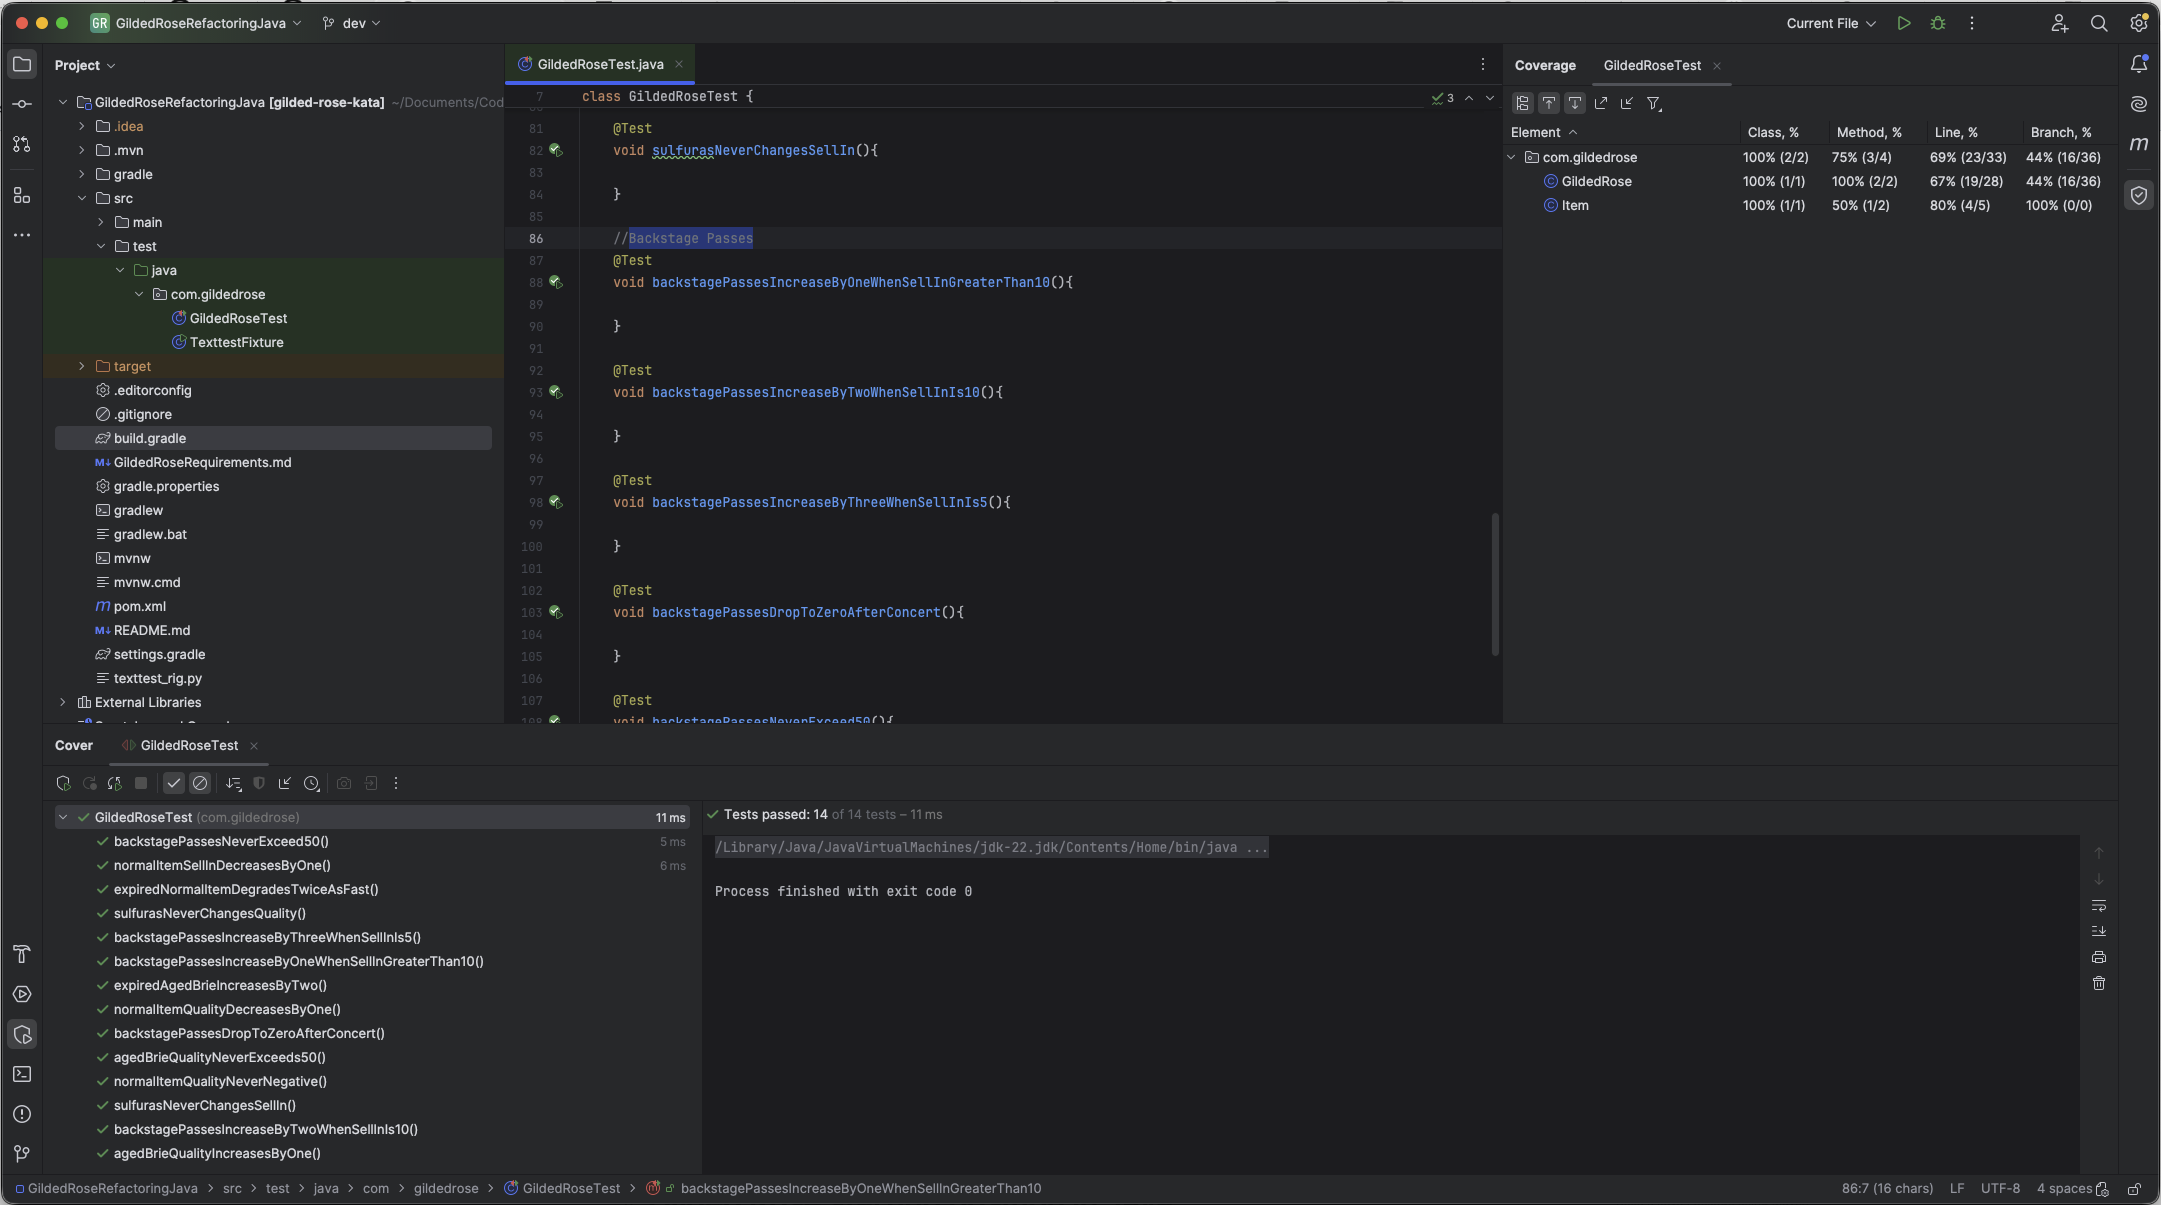
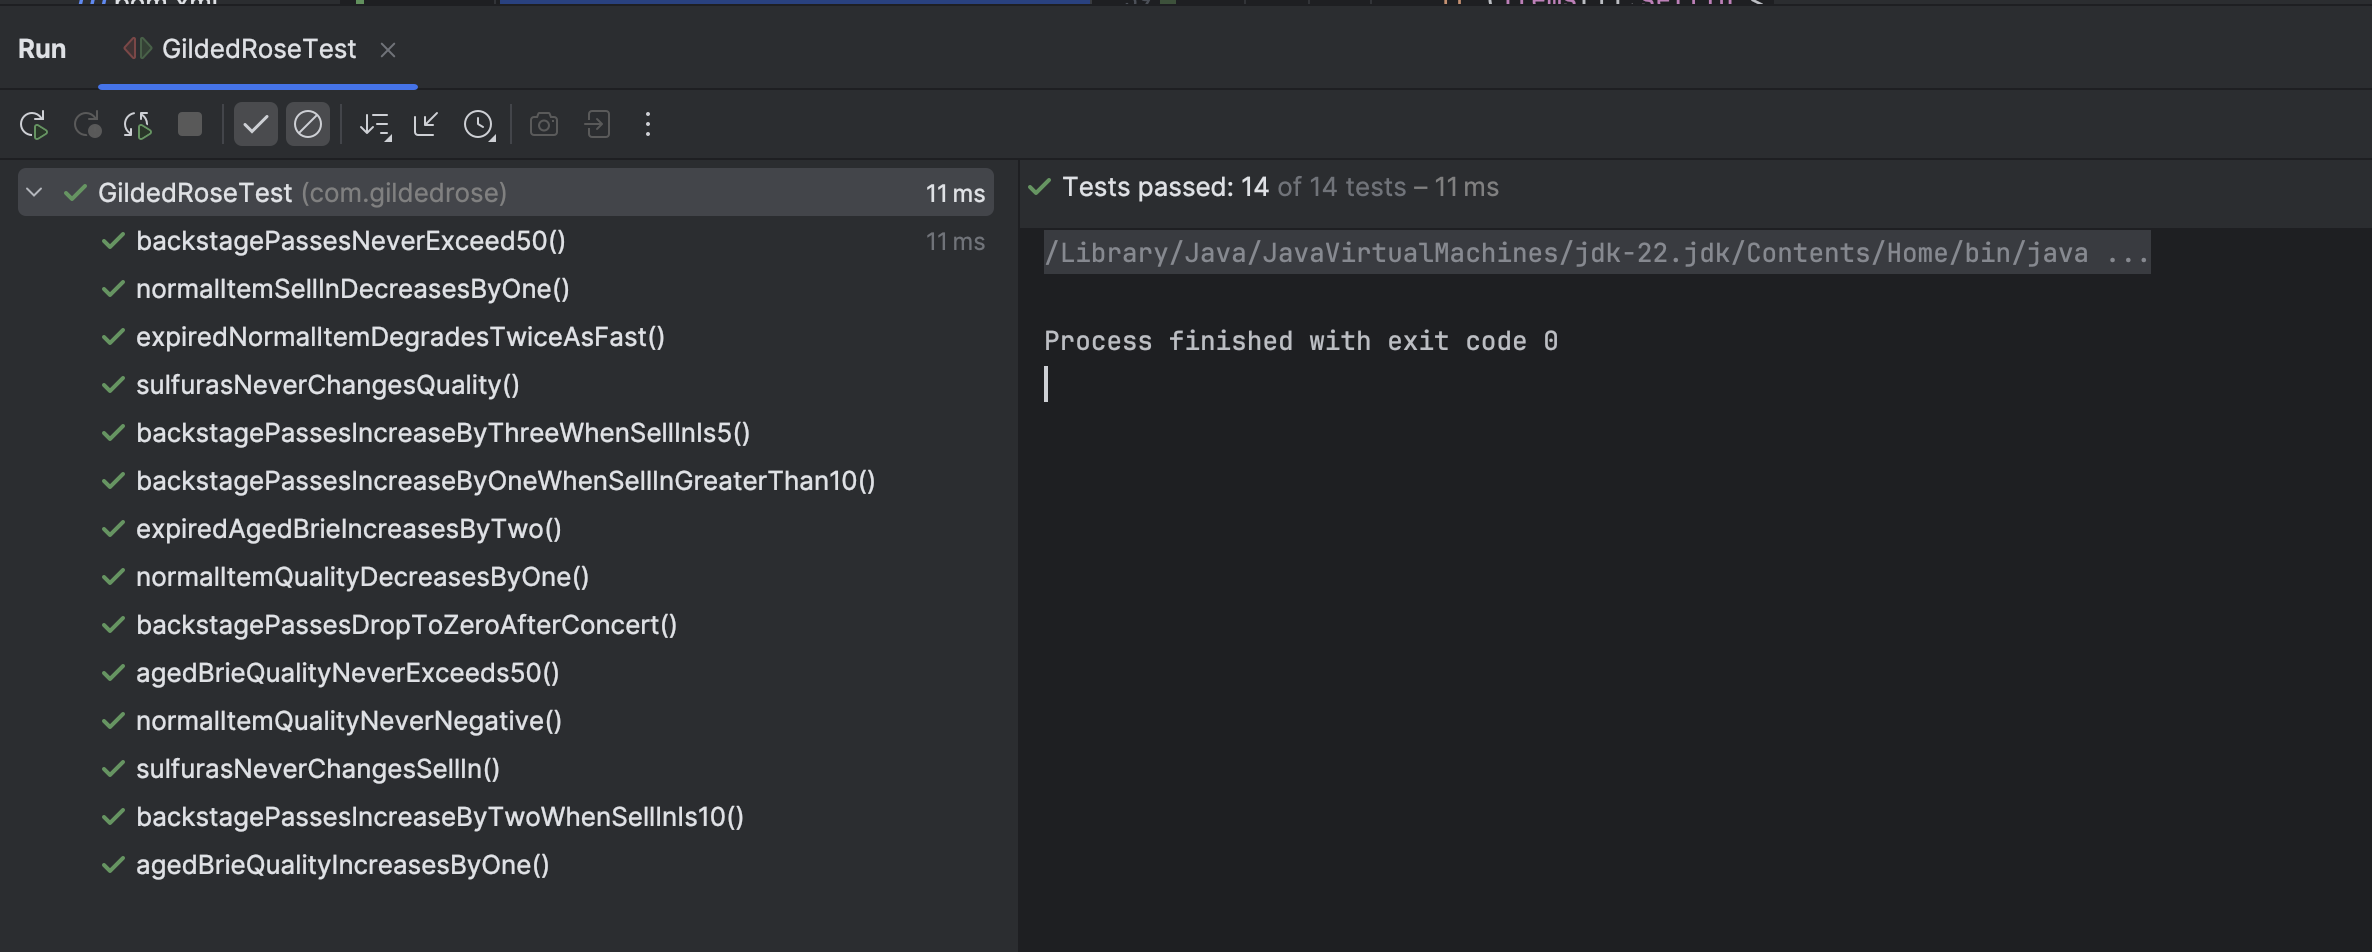
update readme,upload images, TDD test case

diff --git a/src/main/java/com/gildedrose/GildedRose.java b/src/main/java/com/gildedrose/GildedRose.java
@@ -11,53 +11,71 @@ class GildedRose {
 
 
         for (int i = 0; i < items.length; i++) {
-            boolean isAgedBrie = items[i].name.equals("Aged Brie");
-            boolean isBackstage = items[i].name.equals("Backstage passes to a TAFKAL80ETC concert");
-            boolean isSurfuras = items[i].name.equals("Sulfuras, Hand of Ragnaros");
 
             //
-            if (!isAgedBrie && !isBackstage) {
-                if (items[i].quality > 0) {
-                    if (!isSurfuras) {
-                        items[i].quality -= 1;
-                    }
-                }
-            } else {
-                if (items[i].quality < 50) {
-                    items[i].quality += 1;
-
-                    if (isBackstage) {
-                        if (items[i].sellIn < 11 && items[i].quality < 50) {
-                                items[i].quality += 1;
-                        }
-                        if (items[i].sellIn < 6 && items[i].quality < 50) {
-                                items[i].quality += 1;
-                        }
-                    }
-                }
-            }
-
-            //
-            if (!isSurfuras) {
-                items[i].sellIn -= 1;
-            }
-
-            //
-            if (items[i].sellIn < 0) {
-                if (!isAgedBrie) {
-                    if (!isBackstage) {
-                        if (items[i].quality > 0) {
-                            if (!isSurfuras) {
-                                items[i].quality -= 1;
-                            }
-                        }
-                    } else {
-                        items[i].quality = 0;
-                    }
-                } else {
+            switch (items[i].name){
+                case "Aged Brie":
                     if (items[i].quality < 50) {
+                        items[i].quality += 1;}
+                    items[i].sellIn -= 1;
+
+                    break;
+                case "Backstage passes to a TAFKAL80ETC concert":
+                    if (items[i].quality < 50) {
+                        items[i].quality += 1;}
+
+                    if (items[i].sellIn < 11 && items[i].quality < 50) {
                         items[i].quality += 1;
                     }
+                    if (items[i].sellIn < 6 && items[i].quality < 50) {
+                        items[i].quality += 1;
+                    }
+                    items[i].sellIn -= 1;
+                    break;
+                case "Sulfuras, Hand of Ragnaros":
+                    break;
+                case "Conjured Cake":
+                        if(items[i].quality>0){
+                            items[i].quality-=2;
+                        }
+                        if(items[i].quality<0){
+                            items[i].quality=0;
+                        }
+                    if (items[i].sellIn > 0) {
+                        items[i].sellIn--;
+                    }
+                        break;
+
+                default:
+                    if (items[i].quality > 0){
+                        items[i].quality -= 1;}
+                    items[i].sellIn -= 1;
+                    break;
+
+            }
+
+
+
+            if (items[i].sellIn < 0) {
+                switch (items[i].name) {
+                    case "Aged Brie":
+                        if (items[i].quality < 50) {
+                            items[i].quality++;
+                        }
+                        break;
+
+                    case "Backstage passes to a TAFKAL80ETC concert":
+                        items[i].quality = 0;
+                        break;
+
+                    case "Sulfuras, Hand of Ragnaros":
+                        // Do nothing
+                        break;
+                    default:
+                        if (items[i].quality > 0) {
+                            items[i].quality--;
+                        }
+                        break;
                 }
             }
         }

diff --git a/src/test/java/com/gildedrose/GildedRoseTest.java b/src/test/java/com/gildedrose/GildedRoseTest.java
@@ -109,9 +109,9 @@ class GildedRoseTest {
     void backstagePassesIncreaseByOneWhenSellInGreaterThan10(){
         Item[] items = { new Item("Backstage passes to a TAFKAL80ETC concert", 11, 20) };
         GildedRose app = new GildedRose(items);
-    
+
         app.updateQuality();
-    
+
         assertEquals(21, items[0].quality);
         assertEquals(10, items[0].sellIn);
     }
@@ -120,9 +120,9 @@ class GildedRoseTest {
     void backstagePassesIncreaseByTwoWhenSellInIs10(){
         Item[] items = { new Item("Backstage passes to a TAFKAL80ETC concert", 10, 20) };
         GildedRose app = new GildedRose(items);
-    
+
         app.updateQuality();
-    
+
         assertEquals(22, items[0].quality);
         assertEquals(9, items[0].sellIn);
     }
@@ -131,9 +131,9 @@ class GildedRoseTest {
     void backstagePassesIncreaseByThreeWhenSellInIs5(){
         Item[] items = { new Item("Backstage passes to a TAFKAL80ETC concert", 5, 20) };
         GildedRose app = new GildedRose(items);
-    
+
         app.updateQuality();
-    
+
         assertEquals(23, items[0].quality);
         assertEquals(4, items[0].sellIn);
     }
@@ -160,6 +160,16 @@ class GildedRoseTest {
         assertEquals(50, items[0].quality);
     }
 
+//    @Test
+//    void conjuredItemsDegradeTwiceAsFast(){
+//        Item[] items = {new Item("Conjured Cake", 10,33)};
+//        GildedRose app = new GildedRose(items);
+//
+//        app.updateQuality();
+//
+//        assertEquals(31,items[0].quality);
+//        assertEquals(9,items[0].sellIn);
+//    }
 
 
 }

diff --git a/README.md b/README.md
@@ -28,12 +28,24 @@ Mob Masters
 - We rotate the driver role during the session.
 - Changes are committed to GitHub after team review.
 
+
 ## Assignment Deliverables
 
+### Code Coverage
 - Code coverage screenshot: `code-coverage.png`
+
+### Unit Test Results
 - Test results: `test-results.png`
 
----
+### Mob Programming – Refactoring Session
+Our team collaborated using mob programming to refactor the legacy Gilded Rose code while preserving its existing behavior through continuous unit testing. The refactoring focused on reducing code duplication, simplifying conditional logic, and improving readability while ensuring all tests continued to pass.
+
+**Video:** https://youtu.be/ZmDU2nFe6rQ
+
+### Mob Programming – TDD: Conjured Feature
+Our team used Test-Driven Development (TDD) to implement the new Conjured inventory item. We first wrote failing unit tests, implemented the production code to make the tests pass, verified that Conjured items degrade twice as fast as ordinary items, and confirmed that the complete JUnit test suite passed successfully.
+
+**Video:** https://youtu.be/2QhdJU2_eyA
 # Gilded Rose starting position in Java
 
 ## Run the TextTest Fixture from Command-Line